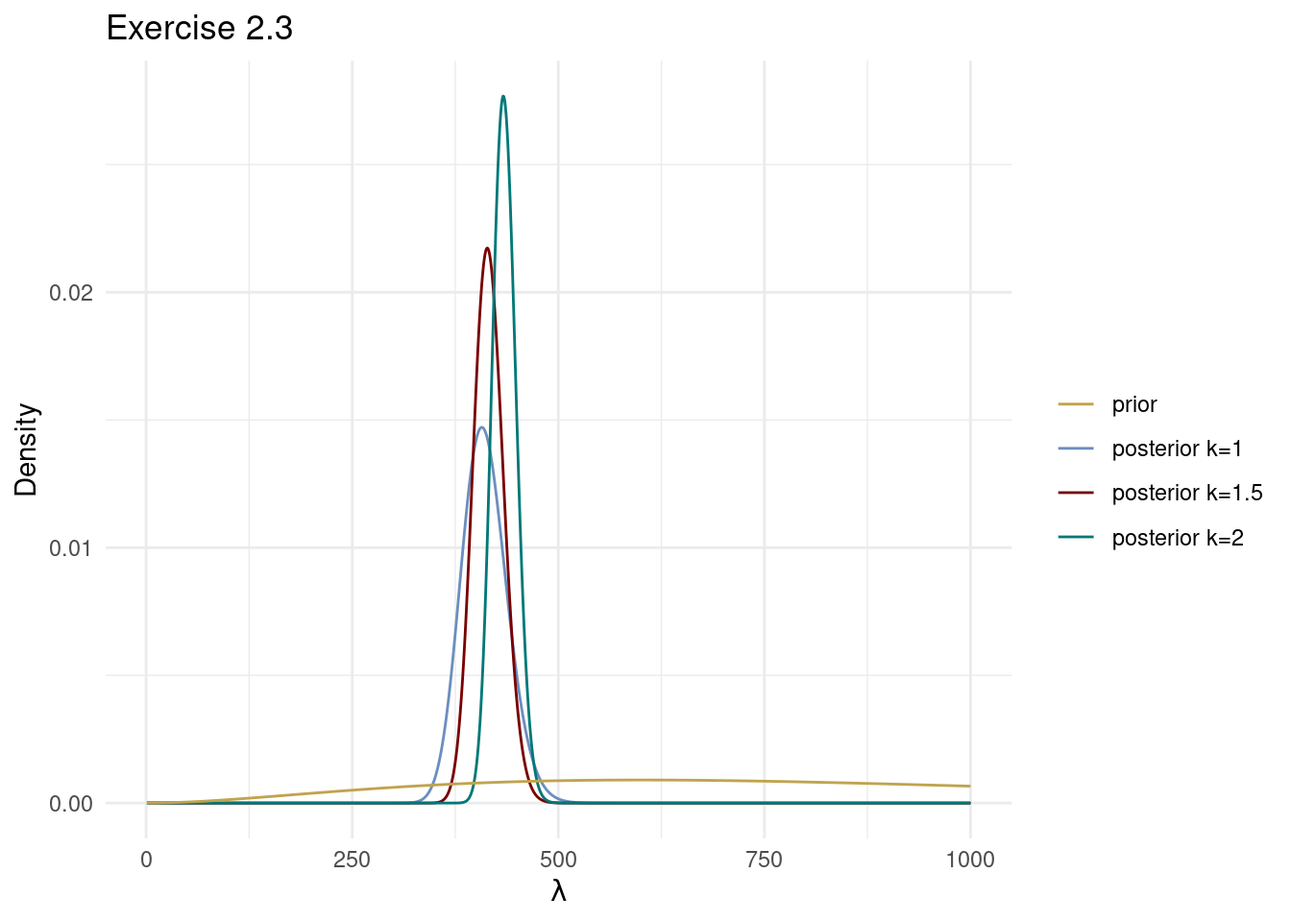
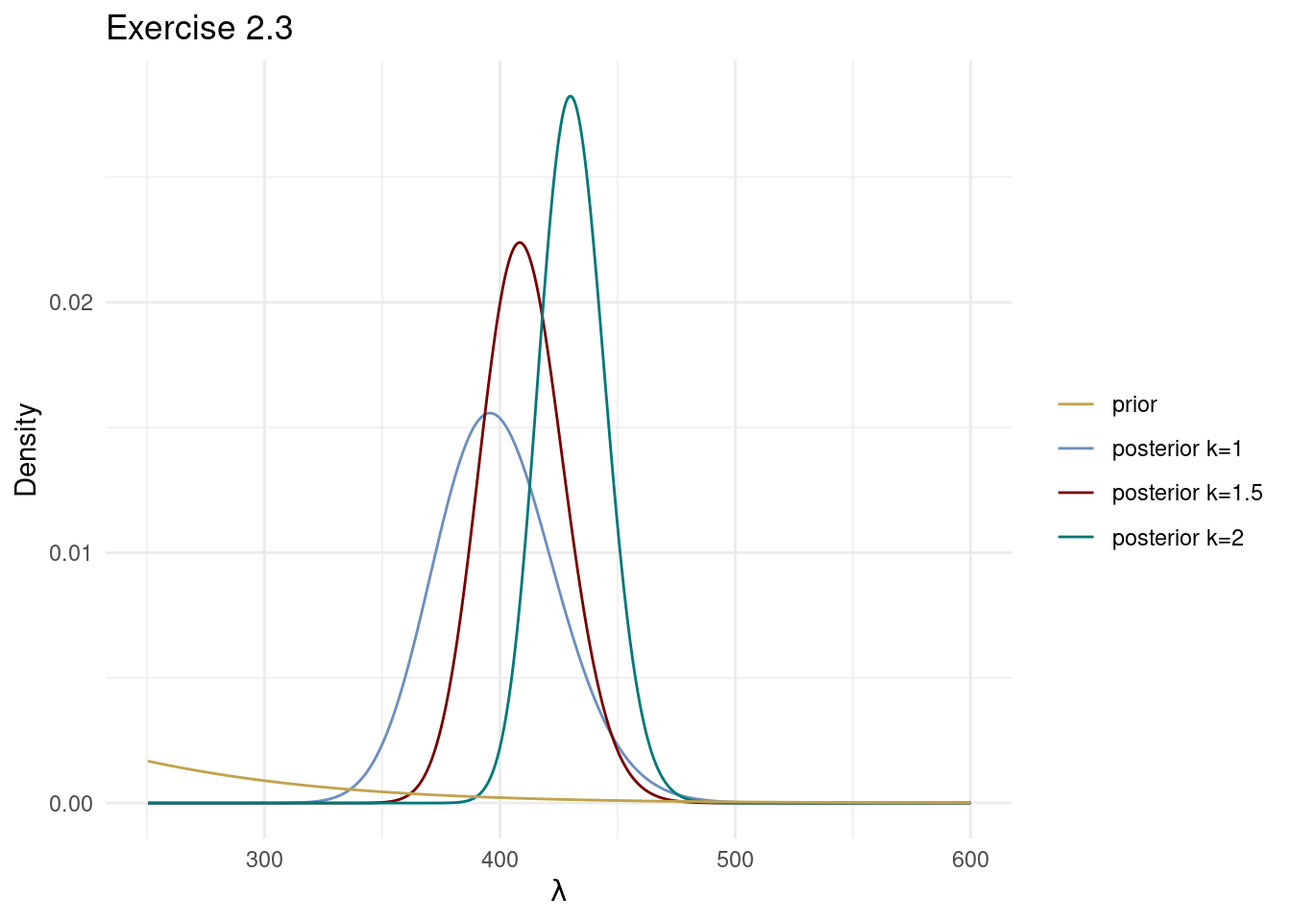
added exercise: stan for simple weibull

diff --git a/docs/exercises/ch2/weibull_post_censored.html b/docs/exercises/ch2/weibull_post_censored.html
@@ -218,6 +218,7 @@ X_1,\ldots,X_n \vert \lambda, k \overset{\mathrm{iid}}{\sim} \mathrm{Weibull}(\l
 <ol type="a">
 <li>Plot the posterior distribution of <span class="math inline">\(\lambda\)</span> conditional on <span class="math inline">\(k=1\)</span>, <span class="math inline">\(k=3/2\)</span> and <span class="math inline">\(k=2\)</span>. For all <span class="math inline">\(k\)</span>, use the prior <span class="math inline">\(\lambda \sim \mathrm{Gamma}(\alpha,\beta)\)</span> with <span class="math inline">\(\alpha=3\)</span> and <span class="math inline">\(\beta=1/50\)</span> (which a similar prior for <span class="math inline">\(\theta=1/\lambda\)</span> as in Exercise 2.2). <em>Hint</em>: the posterior distribution for <span class="math inline">\(k\neq 1\)</span> is intractable, so use numerical evaluation of the posterior over a grid of <span class="math inline">\(\lambda\)</span>-values.</li>
 <li>Plot the <code>time</code> variable as a histogram and overlay the fitted model for the three different <span class="math inline">\(k\)</span>-values; use the posterior mode for <span class="math inline">\(\theta\)</span> in each model when plotting the fitted model density.<br></li>
+<li>Use <code>stan</code> to sample from the posterior distribution of <span class="math inline">\(\lambda\)</span> for a given <span class="math inline">\(k=3/2\)</span>. This should replicate your results in (a). Read <a href="https://mc-stan.org/docs/stan-users-guide/truncation-censoring.html#integrating-out-censored-values">this part</a> of the Stan User Guide on how to implement censoring in the model before starting. The example in the User Guide has the same censoring point for all patients, which is not the case in the <code>lung</code> dataset. So you need to generalize that to a vector of censoring points, one for each patient.</li>
 </ol>
 <div class="callout callout-style-default callout-note no-icon callout-titled">
 <div class="callout-header d-flex align-content-center" data-bs-toggle="collapse" data-bs-target=".callout-1-contents" aria-controls="callout-1" aria-expanded="false" aria-label="Toggle callout">
@@ -258,7 +259,7 @@ p(\lambda^{(j)} \vert x_1,\ldots,x_n) =
 <p>Set up prior hyperparameters</p>
 <div class="cell">
 <div class="sourceCode cell-code" id="cb2"><pre class="sourceCode r code-with-copy"><code class="sourceCode r"><span id="cb2-1"><a href="#cb2-1" aria-hidden="true" tabindex="-1"></a>alpha_prior <span class="ot">&lt;-</span> <span class="dv">3</span>     <span class="co"># shape parameter</span></span>
-<span id="cb2-2"><a href="#cb2-2" aria-hidden="true" tabindex="-1"></a>beta_prior <span class="ot">&lt;-</span> <span class="dv">1</span><span class="sc">/</span><span class="dv">300</span>  <span class="co"># rate parameter</span></span></code><button title="Copy to Clipboard" class="code-copy-button"><i class="bi"></i></button></pre></div>
+<span id="cb2-2"><a href="#cb2-2" aria-hidden="true" tabindex="-1"></a>beta_prior <span class="ot">&lt;-</span> <span class="dv">1</span><span class="sc">/</span><span class="dv">50</span>   <span class="co"># rate parameter</span></span></code><button title="Copy to Clipboard" class="code-copy-button"><i class="bi"></i></button></pre></div>
 </div>
 <p>Set up function that computes the likelihood for any <span class="math inline">\(\lambda\)</span> value:</p>
 <div class="cell">
@@ -288,7 +289,7 @@ p(\lambda^{(j)} \vert x_1,\ldots,x_n) =
 <div class="cell">
 <div class="sourceCode cell-code" id="cb5"><pre class="sourceCode r code-with-copy"><code class="sourceCode r"><span id="cb5-1"><a href="#cb5-1" aria-hidden="true" tabindex="-1"></a><span class="co"># Plot the prior and posterior densities</span></span>
 <span id="cb5-2"><a href="#cb5-2" aria-hidden="true" tabindex="-1"></a></span>
-<span id="cb5-3"><a href="#cb5-3" aria-hidden="true" tabindex="-1"></a>lambdaGrid <span class="ot">&lt;-</span> <span class="fu">seq</span>(<span class="dv">1</span>, <span class="dv">1000</span>, <span class="at">length.out =</span> <span class="dv">1000</span>)</span>
+<span id="cb5-3"><a href="#cb5-3" aria-hidden="true" tabindex="-1"></a>lambdaGrid <span class="ot">&lt;-</span> <span class="fu">seq</span>(<span class="dv">200</span>, <span class="dv">800</span>, <span class="at">length.out =</span> <span class="dv">1000</span>)</span>
 <span id="cb5-4"><a href="#cb5-4" aria-hidden="true" tabindex="-1"></a><span class="co"># Compute to get the prior</span></span>
 <span id="cb5-5"><a href="#cb5-5" aria-hidden="true" tabindex="-1"></a>postRes <span class="ot">&lt;-</span> <span class="fu">weibull_posterior</span>(lambdaGrid, lung<span class="sc">$</span>time, lung<span class="sc">$</span>status <span class="sc">==</span> <span class="dv">1</span>, <span class="at">k =</span> <span class="dv">1</span>, </span>
 <span id="cb5-6"><a href="#cb5-6" aria-hidden="true" tabindex="-1"></a>                             alpha_prior, beta_prior)</span>
@@ -311,11 +312,16 @@ p(\lambda^{(j)} \vert x_1,\ldots,x_n) =
 <span id="cb5-23"><a href="#cb5-23" aria-hidden="true" tabindex="-1"></a><span class="fu">ggplot</span>(df_long) <span class="sc">+</span></span>
 <span id="cb5-24"><a href="#cb5-24" aria-hidden="true" tabindex="-1"></a>  <span class="fu">aes</span>(<span class="at">x =</span> lambdaGrid, <span class="at">y =</span> density, <span class="at">color =</span> density_type) <span class="sc">+</span></span>
 <span id="cb5-25"><a href="#cb5-25" aria-hidden="true" tabindex="-1"></a>  <span class="fu">geom_line</span>() <span class="sc">+</span></span>
-<span id="cb5-26"><a href="#cb5-26" aria-hidden="true" tabindex="-1"></a>  <span class="fu">scale_colour_manual</span>(</span>
-<span id="cb5-27"><a href="#cb5-27" aria-hidden="true" tabindex="-1"></a>    <span class="at">breaks =</span> <span class="fu">c</span>(<span class="st">"prior"</span>, <span class="st">"posterior k=1"</span>, <span class="st">"posterior k=1.5"</span>, <span class="st">"posterior k=2"</span>), </span>
-<span id="cb5-28"><a href="#cb5-28" aria-hidden="true" tabindex="-1"></a>    <span class="at">values =</span> <span class="fu">c</span>(colors[<span class="dv">2</span>], colors[<span class="dv">1</span>], colors[<span class="dv">3</span>], colors[<span class="dv">4</span>])) <span class="sc">+</span></span>
-<span id="cb5-29"><a href="#cb5-29" aria-hidden="true" tabindex="-1"></a>  <span class="fu">labs</span>(<span class="at">title =</span> <span class="st">"Exercise 2.3"</span>, <span class="at">x =</span> <span class="fu">expression</span>(lambda), <span class="at">y =</span> <span class="st">"Density"</span>, <span class="at">color =</span> <span class="st">""</span>) <span class="sc">+</span> </span>
-<span id="cb5-30"><a href="#cb5-30" aria-hidden="true" tabindex="-1"></a>  <span class="fu">theme_minimal</span>()</span></code><button title="Copy to Clipboard" class="code-copy-button"><i class="bi"></i></button></pre></div>
+<span id="cb5-26"><a href="#cb5-26" aria-hidden="true" tabindex="-1"></a>  <span class="fu">xlim</span>(<span class="dv">250</span>,<span class="dv">600</span>) <span class="sc">+</span></span>
+<span id="cb5-27"><a href="#cb5-27" aria-hidden="true" tabindex="-1"></a>  <span class="fu">scale_colour_manual</span>(</span>
+<span id="cb5-28"><a href="#cb5-28" aria-hidden="true" tabindex="-1"></a>    <span class="at">breaks =</span> <span class="fu">c</span>(<span class="st">"prior"</span>, <span class="st">"posterior k=1"</span>, <span class="st">"posterior k=1.5"</span>, <span class="st">"posterior k=2"</span>), </span>
+<span id="cb5-29"><a href="#cb5-29" aria-hidden="true" tabindex="-1"></a>    <span class="at">values =</span> <span class="fu">c</span>(colors[<span class="dv">2</span>], colors[<span class="dv">1</span>], colors[<span class="dv">3</span>], colors[<span class="dv">4</span>])) <span class="sc">+</span></span>
+<span id="cb5-30"><a href="#cb5-30" aria-hidden="true" tabindex="-1"></a>  <span class="fu">labs</span>(<span class="at">title =</span> <span class="st">"Exercise 2.3"</span>, <span class="at">x =</span> <span class="fu">expression</span>(lambda), <span class="at">y =</span> <span class="st">"Density"</span>, <span class="at">color =</span> <span class="st">""</span>) <span class="sc">+</span> </span>
+<span id="cb5-31"><a href="#cb5-31" aria-hidden="true" tabindex="-1"></a>  <span class="fu">theme_minimal</span>()</span></code><button title="Copy to Clipboard" class="code-copy-button"><i class="bi"></i></button></pre></div>
+<div class="cell-output cell-output-stderr">
+<pre><code>Warning: Removed 1668 rows containing missing values or values outside the scale range
+(`geom_line()`).</code></pre>
+</div>
 <div class="cell-output-display">
 <div>
 <figure class="figure">
@@ -339,27 +345,145 @@ Solution Exercise 2.3b
 </div>
 <div id="callout-2" class="callout-2-contents callout-collapse collapse">
 <div class="callout-body-container callout-body">
-<p>The fit of the three Weibull models are plotted below. The best fit seems to be for <span class="math inline">\(k=3/2\)</span>, which is still not very good. In a later exercise you will be asked to freely estimate both <span class="math inline">\(\lambda\)</span> and <span class="math inline">\(k\)</span>.</p>
+<p>The fit of the three Weibull models are plotted below. The best fit seems to be for <span class="math inline">\(k=3/2\)</span>, but it is still not very good. In a later exercise you will be asked to freely estimate both <span class="math inline">\(\lambda\)</span> and <span class="math inline">\(k\)</span>, and even later to fit a Weibull regression model with covariates.</p>
 <div class="cell">
-<div class="sourceCode cell-code" id="cb6"><pre class="sourceCode r code-with-copy"><code class="sourceCode r"><span id="cb6-1"><a href="#cb6-1" aria-hidden="true" tabindex="-1"></a><span class="fu">ggplot</span>(lung, <span class="fu">aes</span>(time)) <span class="sc">+</span></span>
-<span id="cb6-2"><a href="#cb6-2" aria-hidden="true" tabindex="-1"></a>  <span class="fu">geom_histogram</span>(<span class="fu">aes</span>(<span class="at">y =</span> <span class="fu">after_stat</span>(density), <span class="at">fill =</span> <span class="st">"Data"</span>), <span class="at">bins =</span> <span class="dv">30</span>) <span class="sc">+</span></span>
-<span id="cb6-3"><a href="#cb6-3" aria-hidden="true" tabindex="-1"></a>  <span class="fu">stat_function</span>(<span class="at">fun =</span> dweibull, <span class="at">args =</span> <span class="fu">list</span>(<span class="at">shape =</span> <span class="dv">1</span>, <span class="at">scale =</span> postModes[<span class="dv">1</span>]), <span class="at">lwd =</span> <span class="dv">1</span>, </span>
-<span id="cb6-4"><a href="#cb6-4" aria-hidden="true" tabindex="-1"></a>                <span class="fu">aes</span>(<span class="at">color =</span> <span class="st">"Weibull fit k = 1/2"</span>),</span>
-<span id="cb6-5"><a href="#cb6-5" aria-hidden="true" tabindex="-1"></a>  ) <span class="sc">+</span></span>
-<span id="cb6-6"><a href="#cb6-6" aria-hidden="true" tabindex="-1"></a>  <span class="fu">stat_function</span>(<span class="at">fun =</span> dweibull, <span class="at">args =</span> <span class="fu">list</span>(<span class="at">shape =</span> <span class="dv">3</span><span class="sc">/</span><span class="dv">2</span>, <span class="at">scale =</span> postModes[<span class="dv">2</span>]), <span class="at">lwd =</span> <span class="dv">1</span>, </span>
-<span id="cb6-7"><a href="#cb6-7" aria-hidden="true" tabindex="-1"></a>                <span class="fu">aes</span>(<span class="at">color =</span> <span class="st">"Weibull fit k = 1"</span>),</span>
-<span id="cb6-8"><a href="#cb6-8" aria-hidden="true" tabindex="-1"></a>  ) <span class="sc">+</span></span>
-<span id="cb6-9"><a href="#cb6-9" aria-hidden="true" tabindex="-1"></a>  <span class="fu">stat_function</span>(<span class="at">fun =</span> dweibull, <span class="at">args =</span> <span class="fu">list</span>(<span class="at">shape =</span> <span class="dv">2</span>, <span class="at">scale =</span> postModes[<span class="dv">3</span>]), <span class="at">lwd =</span> <span class="dv">1</span>, </span>
-<span id="cb6-10"><a href="#cb6-10" aria-hidden="true" tabindex="-1"></a>                <span class="fu">aes</span>(<span class="at">color =</span> <span class="st">"Weibull fit k = 2"</span>),</span>
-<span id="cb6-11"><a href="#cb6-11" aria-hidden="true" tabindex="-1"></a>  ) <span class="sc">+</span></span>
-<span id="cb6-12"><a href="#cb6-12" aria-hidden="true" tabindex="-1"></a>  <span class="fu">labs</span>(<span class="at">title =</span> <span class="st">"Weibull model fits"</span>, <span class="at">x =</span> <span class="st">"days"</span>, <span class="at">y =</span> <span class="st">"Density"</span>) <span class="sc">+</span> </span>
-<span id="cb6-13"><a href="#cb6-13" aria-hidden="true" tabindex="-1"></a>  <span class="fu">scale_fill_manual</span>(<span class="st">""</span>, <span class="at">values =</span> colors[<span class="dv">6</span>]) <span class="sc">+</span></span>
-<span id="cb6-14"><a href="#cb6-14" aria-hidden="true" tabindex="-1"></a>  <span class="fu">scale_color_manual</span>(<span class="st">""</span>, <span class="at">values =</span> <span class="fu">c</span>(colors[<span class="dv">1</span>], colors[<span class="dv">3</span>], colors[<span class="dv">4</span>])) <span class="sc">+</span></span>
-<span id="cb6-15"><a href="#cb6-15" aria-hidden="true" tabindex="-1"></a>  <span class="fu">theme_minimal</span>()</span></code><button title="Copy to Clipboard" class="code-copy-button"><i class="bi"></i></button></pre></div>
+<div class="sourceCode cell-code" id="cb7"><pre class="sourceCode r code-with-copy"><code class="sourceCode r"><span id="cb7-1"><a href="#cb7-1" aria-hidden="true" tabindex="-1"></a><span class="fu">ggplot</span>(lung, <span class="fu">aes</span>(time)) <span class="sc">+</span></span>
+<span id="cb7-2"><a href="#cb7-2" aria-hidden="true" tabindex="-1"></a>  <span class="fu">geom_histogram</span>(<span class="fu">aes</span>(<span class="at">y =</span> <span class="fu">after_stat</span>(density), <span class="at">fill =</span> <span class="st">"Data"</span>), <span class="at">bins =</span> <span class="dv">30</span>) <span class="sc">+</span></span>
+<span id="cb7-3"><a href="#cb7-3" aria-hidden="true" tabindex="-1"></a>  <span class="fu">stat_function</span>(<span class="at">fun =</span> dweibull, <span class="at">args =</span> <span class="fu">list</span>(<span class="at">shape =</span> <span class="dv">1</span>, <span class="at">scale =</span> postModes[<span class="dv">1</span>]), <span class="at">lwd =</span> <span class="dv">1</span>, </span>
+<span id="cb7-4"><a href="#cb7-4" aria-hidden="true" tabindex="-1"></a>                <span class="fu">aes</span>(<span class="at">color =</span> <span class="st">"Weibull fit k = 1"</span>),</span>
+<span id="cb7-5"><a href="#cb7-5" aria-hidden="true" tabindex="-1"></a>  ) <span class="sc">+</span></span>
+<span id="cb7-6"><a href="#cb7-6" aria-hidden="true" tabindex="-1"></a>  <span class="fu">stat_function</span>(<span class="at">fun =</span> dweibull, <span class="at">args =</span> <span class="fu">list</span>(<span class="at">shape =</span> <span class="dv">3</span><span class="sc">/</span><span class="dv">2</span>, <span class="at">scale =</span> postModes[<span class="dv">2</span>]), <span class="at">lwd =</span> <span class="dv">1</span>, </span>
+<span id="cb7-7"><a href="#cb7-7" aria-hidden="true" tabindex="-1"></a>                <span class="fu">aes</span>(<span class="at">color =</span> <span class="st">"Weibull fit k = 3/2"</span>),</span>
+<span id="cb7-8"><a href="#cb7-8" aria-hidden="true" tabindex="-1"></a>  ) <span class="sc">+</span></span>
+<span id="cb7-9"><a href="#cb7-9" aria-hidden="true" tabindex="-1"></a>  <span class="fu">stat_function</span>(<span class="at">fun =</span> dweibull, <span class="at">args =</span> <span class="fu">list</span>(<span class="at">shape =</span> <span class="dv">2</span>, <span class="at">scale =</span> postModes[<span class="dv">3</span>]), <span class="at">lwd =</span> <span class="dv">1</span>, </span>
+<span id="cb7-10"><a href="#cb7-10" aria-hidden="true" tabindex="-1"></a>                <span class="fu">aes</span>(<span class="at">color =</span> <span class="st">"Weibull fit k = 2"</span>),</span>
+<span id="cb7-11"><a href="#cb7-11" aria-hidden="true" tabindex="-1"></a>  ) <span class="sc">+</span></span>
+<span id="cb7-12"><a href="#cb7-12" aria-hidden="true" tabindex="-1"></a>  <span class="fu">labs</span>(<span class="at">title =</span> <span class="st">"Weibull model fits"</span>, <span class="at">x =</span> <span class="st">"days"</span>, <span class="at">y =</span> <span class="st">"Density"</span>) <span class="sc">+</span> </span>
+<span id="cb7-13"><a href="#cb7-13" aria-hidden="true" tabindex="-1"></a>  <span class="fu">scale_fill_manual</span>(<span class="st">""</span>, <span class="at">values =</span> colors[<span class="dv">6</span>]) <span class="sc">+</span></span>
+<span id="cb7-14"><a href="#cb7-14" aria-hidden="true" tabindex="-1"></a>  <span class="fu">scale_color_manual</span>(<span class="st">""</span>, <span class="at">values =</span> <span class="fu">c</span>(colors[<span class="dv">1</span>], colors[<span class="dv">3</span>], colors[<span class="dv">4</span>])) <span class="sc">+</span></span>
+<span id="cb7-15"><a href="#cb7-15" aria-hidden="true" tabindex="-1"></a>  <span class="fu">theme_minimal</span>()</span></code><button title="Copy to Clipboard" class="code-copy-button"><i class="bi"></i></button></pre></div>
 <div class="cell-output-display">
 <div>
 <figure class="figure">
 <p><img src="weibull_post_censored_files/figure-html/unnamed-chunk-6-1.png" class="img-fluid figure-img" width="672"></p>
+</figure>
+</div>
+</div>
+</div>
+</div>
+</div>
+</div>
+<div class="callout callout-style-default callout-note no-icon callout-titled">
+<div class="callout-header d-flex align-content-center" data-bs-toggle="collapse" data-bs-target=".callout-3-contents" aria-controls="callout-3" aria-expanded="false" aria-label="Toggle callout">
+<div class="callout-icon-container">
+<i class="callout-icon no-icon"></i>
+</div>
+<div class="callout-title-container flex-fill">
+Solution Exercise 2.3c
+</div>
+<div class="callout-btn-toggle d-inline-block border-0 py-1 ps-1 pe-0 float-end"><i class="callout-toggle"></i></div>
+</div>
+<div id="callout-3" class="callout-3-contents callout-collapse collapse">
+<div class="callout-body-container callout-body">
+<p>The code below defines the iid Weibull survival model with censored data in <code>stan</code>. The code here extends <a href="https://mc-stan.org/docs/stan-users-guide/truncation-censoring.html#integrating-out-censored-values">this example</a> in the Stan User Guide to the case with <em>different censoring points</em> for each patient. Note the <code>target +=</code> construction where the censored data points are added to the target (the log posterior) after the initial uncensored (observed) data are included in the log posterior with the <code>y_obs ~ weibull(k, lambda)</code> statement. The <code>weibull_lccdf</code> function in stan is a convenience function that computes the survival probability <span class="math inline">\(\mathrm{Pr}(X &gt;= x) = 1 - F(x)\)</span>, where <span class="math inline">\(F()\)</span> is the cdf of the Weibull distribution. There are <code>_lccdf</code> versions of all distribution in stan.</p>
+<div class="cell">
+<div class="sourceCode cell-code" id="cb8"><pre class="sourceCode r code-with-copy"><code class="sourceCode r"><span id="cb8-1"><a href="#cb8-1" aria-hidden="true" tabindex="-1"></a>weibull_survivalmodel <span class="ot">&lt;-</span> <span class="st">'</span></span>
+<span id="cb8-2"><a href="#cb8-2" aria-hidden="true" tabindex="-1"></a><span class="st">data {</span></span>
+<span id="cb8-3"><a href="#cb8-3" aria-hidden="true" tabindex="-1"></a></span>
+<span id="cb8-4"><a href="#cb8-4" aria-hidden="true" tabindex="-1"></a><span class="st">  // Data</span></span>
+<span id="cb8-5"><a href="#cb8-5" aria-hidden="true" tabindex="-1"></a><span class="st">  int&lt;lower=0&gt; N_obs;</span></span>
+<span id="cb8-6"><a href="#cb8-6" aria-hidden="true" tabindex="-1"></a><span class="st">  int&lt;lower=0&gt; N_cens;</span></span>
+<span id="cb8-7"><a href="#cb8-7" aria-hidden="true" tabindex="-1"></a><span class="st">  array[N_obs] real y_obs;</span></span>
+<span id="cb8-8"><a href="#cb8-8" aria-hidden="true" tabindex="-1"></a><span class="st">  array[N_cens] real y_cens;</span></span>
+<span id="cb8-9"><a href="#cb8-9" aria-hidden="true" tabindex="-1"></a><span class="st">  </span></span>
+<span id="cb8-10"><a href="#cb8-10" aria-hidden="true" tabindex="-1"></a><span class="st">  // Model setting</span></span>
+<span id="cb8-11"><a href="#cb8-11" aria-hidden="true" tabindex="-1"></a><span class="st">  real&lt;lower=0&gt; k;</span></span>
+<span id="cb8-12"><a href="#cb8-12" aria-hidden="true" tabindex="-1"></a><span class="st">  </span></span>
+<span id="cb8-13"><a href="#cb8-13" aria-hidden="true" tabindex="-1"></a><span class="st">  // Prior hyperparameters theta ~ Gamma(alpha, beta)</span></span>
+<span id="cb8-14"><a href="#cb8-14" aria-hidden="true" tabindex="-1"></a><span class="st">  real&lt;lower=0&gt; alpha;</span></span>
+<span id="cb8-15"><a href="#cb8-15" aria-hidden="true" tabindex="-1"></a><span class="st">  real&lt;lower=0&gt; beta;</span></span>
+<span id="cb8-16"><a href="#cb8-16" aria-hidden="true" tabindex="-1"></a><span class="st">}</span></span>
+<span id="cb8-17"><a href="#cb8-17" aria-hidden="true" tabindex="-1"></a><span class="st">parameters {</span></span>
+<span id="cb8-18"><a href="#cb8-18" aria-hidden="true" tabindex="-1"></a><span class="st">  real lambda;</span></span>
+<span id="cb8-19"><a href="#cb8-19" aria-hidden="true" tabindex="-1"></a><span class="st">}</span></span>
+<span id="cb8-20"><a href="#cb8-20" aria-hidden="true" tabindex="-1"></a><span class="st">model {</span></span>
+<span id="cb8-21"><a href="#cb8-21" aria-hidden="true" tabindex="-1"></a><span class="st">  lambda ~ gamma(alpha, beta); // specifies the prior</span></span>
+<span id="cb8-22"><a href="#cb8-22" aria-hidden="true" tabindex="-1"></a><span class="st">  y_obs ~ weibull(k, lambda);  // add the observed (non-censored) data</span></span>
+<span id="cb8-23"><a href="#cb8-23" aria-hidden="true" tabindex="-1"></a><span class="st">  target += weibull_lccdf(y_cens | k, lambda); // add censored. lccdf is 1-cdf</span></span>
+<span id="cb8-24"><a href="#cb8-24" aria-hidden="true" tabindex="-1"></a><span class="st">}</span></span>
+<span id="cb8-25"><a href="#cb8-25" aria-hidden="true" tabindex="-1"></a><span class="st">'</span></span></code><button title="Copy to Clipboard" class="code-copy-button"><i class="bi"></i></button></pre></div>
+</div>
+<p>We set up the data and prior lists that will be supplied to stan:</p>
+<div class="cell">
+<div class="sourceCode cell-code" id="cb9"><pre class="sourceCode r code-with-copy"><code class="sourceCode r"><span id="cb9-1"><a href="#cb9-1" aria-hidden="true" tabindex="-1"></a>k <span class="ot">=</span> <span class="dv">3</span><span class="sc">/</span><span class="dv">2</span></span>
+<span id="cb9-2"><a href="#cb9-2" aria-hidden="true" tabindex="-1"></a>y_obs <span class="ot">&lt;-</span> lung <span class="sc">%&gt;%</span> <span class="fu">filter</span>(status <span class="sc">==</span> <span class="dv">2</span>) <span class="sc">%&gt;%</span> <span class="fu">pull</span>(time)</span>
+<span id="cb9-3"><a href="#cb9-3" aria-hidden="true" tabindex="-1"></a>y_cens <span class="ot">&lt;-</span> lung <span class="sc">%&gt;%</span> <span class="fu">filter</span>(status <span class="sc">==</span> <span class="dv">1</span>) <span class="sc">%&gt;%</span> <span class="fu">pull</span>(time)</span>
+<span id="cb9-4"><a href="#cb9-4" aria-hidden="true" tabindex="-1"></a></span>
+<span id="cb9-5"><a href="#cb9-5" aria-hidden="true" tabindex="-1"></a>data <span class="ot">&lt;-</span> <span class="fu">list</span>(<span class="at">N_obs =</span> <span class="fu">length</span>(y_obs), <span class="at">N_cens =</span> <span class="fu">length</span>(y_cens), </span>
+<span id="cb9-6"><a href="#cb9-6" aria-hidden="true" tabindex="-1"></a>             <span class="at">y_obs =</span> y_obs, <span class="at">y_cens =</span> y_cens, <span class="at">k =</span> k)</span>
+<span id="cb9-7"><a href="#cb9-7" aria-hidden="true" tabindex="-1"></a>prior <span class="ot">&lt;-</span> <span class="fu">list</span>(<span class="at">alpha =</span> alpha_prior, <span class="at">beta =</span> beta_prior)</span></code><button title="Copy to Clipboard" class="code-copy-button"><i class="bi"></i></button></pre></div>
+</div>
+<p>Load rstan and set some options</p>
+<div class="cell">
+<div class="sourceCode cell-code" id="cb10"><pre class="sourceCode r code-with-copy"><code class="sourceCode r"><span id="cb10-1"><a href="#cb10-1" aria-hidden="true" tabindex="-1"></a><span class="co">#install.packages("rstan", repos = c('https://stan-dev.r-universe.dev', </span></span>
+<span id="cb10-2"><a href="#cb10-2" aria-hidden="true" tabindex="-1"></a><span class="co">#                                    getOption("repos")))</span></span>
+<span id="cb10-3"><a href="#cb10-3" aria-hidden="true" tabindex="-1"></a><span class="fu">suppressMessages</span>(<span class="fu">library</span>(rstan))</span>
+<span id="cb10-4"><a href="#cb10-4" aria-hidden="true" tabindex="-1"></a><span class="fu">options</span>(<span class="at">mc.cores =</span> parallel<span class="sc">::</span><span class="fu">detectCores</span>())</span>
+<span id="cb10-5"><a href="#cb10-5" aria-hidden="true" tabindex="-1"></a><span class="fu">rstan_options</span>(<span class="at">auto_write =</span> <span class="cn">TRUE</span>)</span></code><button title="Copy to Clipboard" class="code-copy-button"><i class="bi"></i></button></pre></div>
+</div>
+<p>Sample from the posterior distribution using HMC in stan</p>
+<div class="cell">
+<div class="sourceCode cell-code" id="cb11"><pre class="sourceCode r code-with-copy"><code class="sourceCode r"><span id="cb11-1"><a href="#cb11-1" aria-hidden="true" tabindex="-1"></a>nDraws <span class="ot">=</span> <span class="dv">5000</span></span>
+<span id="cb11-2"><a href="#cb11-2" aria-hidden="true" tabindex="-1"></a>fit <span class="ot">=</span> <span class="fu">stan</span>(<span class="at">model_code =</span> weibull_survivalmodel, <span class="at">data =</span> <span class="fu">c</span>(data, prior), <span class="at">iter =</span> nDraws)</span></code><button title="Copy to Clipboard" class="code-copy-button"><i class="bi"></i></button></pre></div>
+<div class="cell-output cell-output-stderr">
+<pre><code>Trying to compile a simple C file</code></pre>
+</div>
+<div class="cell-output cell-output-stdout">
+<pre><code>Running /usr/lib/R/bin/R CMD SHLIB foo.c
+using C compiler: ‘gcc (Ubuntu 11.4.0-1ubuntu1~22.04) 11.4.0’
+gcc -I"/usr/share/R/include" -DNDEBUG   -I"/home/mv/R/x86_64-pc-linux-gnu-library/4.4/Rcpp/include/"  -I"/home/mv/R/x86_64-pc-linux-gnu-library/4.4/RcppEigen/include/"  -I"/home/mv/R/x86_64-pc-linux-gnu-library/4.4/RcppEigen/include/unsupported"  -I"/home/mv/R/x86_64-pc-linux-gnu-library/4.4/BH/include" -I"/home/mv/R/x86_64-pc-linux-gnu-library/4.4/StanHeaders/include/src/"  -I"/home/mv/R/x86_64-pc-linux-gnu-library/4.4/StanHeaders/include/"  -I"/home/mv/R/x86_64-pc-linux-gnu-library/4.4/RcppParallel/include/"  -I"/home/mv/R/x86_64-pc-linux-gnu-library/4.4/rstan/include" -DEIGEN_NO_DEBUG  -DBOOST_DISABLE_ASSERTS  -DBOOST_PENDING_INTEGER_LOG2_HPP  -DSTAN_THREADS  -DUSE_STANC3 -DSTRICT_R_HEADERS  -DBOOST_PHOENIX_NO_VARIADIC_EXPRESSION  -D_HAS_AUTO_PTR_ETC=0  -include '/home/mv/R/x86_64-pc-linux-gnu-library/4.4/StanHeaders/include/stan/math/prim/fun/Eigen.hpp'  -D_REENTRANT -DRCPP_PARALLEL_USE_TBB=1       -fpic  -g -O2 -ffile-prefix-map=/build/r-base-6tgf7J/r-base-4.4.2=. -fstack-protector-strong -Wformat -Werror=format-security -Wdate-time -D_FORTIFY_SOURCE=2  -c foo.c -o foo.o
+In file included from /home/mv/R/x86_64-pc-linux-gnu-library/4.4/RcppEigen/include/Eigen/Core:19,
+                 from /home/mv/R/x86_64-pc-linux-gnu-library/4.4/RcppEigen/include/Eigen/Dense:1,
+                 from /home/mv/R/x86_64-pc-linux-gnu-library/4.4/StanHeaders/include/stan/math/prim/fun/Eigen.hpp:22,
+                 from &lt;command-line&gt;:
+/home/mv/R/x86_64-pc-linux-gnu-library/4.4/RcppEigen/include/Eigen/src/Core/util/Macros.h:679:10: fatal error: cmath: No such file or directory
+  679 | #include &lt;cmath&gt;
+      |          ^~~~~~~
+compilation terminated.
+make: *** [/usr/lib/R/etc/Makeconf:195: foo.o] Error 1</code></pre>
+</div>
+</div>
+<p>Summarize the results from the posterior sampling. The number of effective draws <code>n_eff</code> is not much lower than the <span class="math inline">\(5000\)</span> nominal number of draws, so the HMC sampling is efficient. The <code>Rhat</code> is also close to one, suggesting that the different runs gave similar results.</p>
+<div class="cell">
+<div class="sourceCode cell-code" id="cb14"><pre class="sourceCode r code-with-copy"><code class="sourceCode r"><span id="cb14-1"><a href="#cb14-1" aria-hidden="true" tabindex="-1"></a>s <span class="ot">&lt;-</span> <span class="fu">summary</span>(fit, <span class="at">pars =</span> <span class="st">"lambda"</span>, <span class="at">probs =</span> <span class="fu">c</span>(<span class="fl">0.025</span>, <span class="fl">0.975</span>))</span>
+<span id="cb14-2"><a href="#cb14-2" aria-hidden="true" tabindex="-1"></a>s<span class="sc">$</span>summary  <span class="co"># results from all the different runs (chains) merged.</span></span></code><button title="Copy to Clipboard" class="code-copy-button"><i class="bi"></i></button></pre></div>
+<div class="cell-output cell-output-stdout">
+<pre><code>           mean   se_mean       sd     2.5%    97.5%    n_eff     Rhat
+lambda 415.9198 0.3630227 21.31495 376.6366 460.8922 3447.474 1.000285</code></pre>
+</div>
+</div>
+<p>Compare the posterior from HMC sampling with the gridded version above, as a bug check. Hmm, they should agree. Can’t seem to find the bug now, will fix later. Well, you get the idea.</p>
+<div class="cell">
+<div class="sourceCode cell-code" id="cb16"><pre class="sourceCode r code-with-copy"><code class="sourceCode r"><span id="cb16-1"><a href="#cb16-1" aria-hidden="true" tabindex="-1"></a><span class="co"># Plot histogram from stan draws</span></span>
+<span id="cb16-2"><a href="#cb16-2" aria-hidden="true" tabindex="-1"></a>postsamples <span class="ot">&lt;-</span> <span class="fu">extract</span>(fit, <span class="at">pars =</span> <span class="fu">c</span>(<span class="st">"lambda"</span>))</span>
+<span id="cb16-3"><a href="#cb16-3" aria-hidden="true" tabindex="-1"></a><span class="fu">hist</span>(postsamples<span class="sc">$</span>lambda, <span class="dv">50</span>, <span class="at">freq =</span> <span class="cn">FALSE</span>, <span class="at">col =</span> colors[<span class="dv">5</span>], </span>
+<span id="cb16-4"><a href="#cb16-4" aria-hidden="true" tabindex="-1"></a>     <span class="at">xlab =</span> <span class="fu">expression</span>(lambda), <span class="at">ylab =</span> <span class="st">"posterior density"</span>, </span>
+<span id="cb16-5"><a href="#cb16-5" aria-hidden="true" tabindex="-1"></a>     <span class="at">main =</span> <span class="fu">expression</span>(lambda), <span class="at">ylim =</span> <span class="fu">c</span>(<span class="dv">0</span>,<span class="fl">0.025</span>))</span>
+<span id="cb16-6"><a href="#cb16-6" aria-hidden="true" tabindex="-1"></a></span>
+<span id="cb16-7"><a href="#cb16-7" aria-hidden="true" tabindex="-1"></a><span class="co"># Adding the gridded version from above</span></span>
+<span id="cb16-8"><a href="#cb16-8" aria-hidden="true" tabindex="-1"></a>lambdaGrid <span class="ot">&lt;-</span> <span class="fu">seq</span>(<span class="dv">200</span>, <span class="dv">800</span>, <span class="at">length.out =</span> <span class="dv">1000</span>)</span>
+<span id="cb16-9"><a href="#cb16-9" aria-hidden="true" tabindex="-1"></a>postRes <span class="ot">&lt;-</span> <span class="fu">weibull_posterior</span>(lambdaGrid, lung<span class="sc">$</span>time, lung<span class="sc">$</span>status <span class="sc">==</span> <span class="dv">1</span>, <span class="at">k =</span> k, </span>
+<span id="cb16-10"><a href="#cb16-10" aria-hidden="true" tabindex="-1"></a>                             alpha_prior, beta_prior)</span>
+<span id="cb16-11"><a href="#cb16-11" aria-hidden="true" tabindex="-1"></a><span class="fu">lines</span>(lambdaGrid, postRes<span class="sc">$</span>post, <span class="at">col =</span> colors[<span class="dv">3</span>], <span class="at">lw =</span> <span class="dv">2</span>)</span>
+<span id="cb16-12"><a href="#cb16-12" aria-hidden="true" tabindex="-1"></a></span>
+<span id="cb16-13"><a href="#cb16-13" aria-hidden="true" tabindex="-1"></a><span class="fu">legend</span>(<span class="at">x =</span> <span class="st">"topright"</span>, <span class="at">inset=</span>.<span class="dv">05</span>, <span class="at">legend =</span> <span class="fu">c</span>(<span class="st">"Stan"</span>, <span class="st">"Gridded"</span>), <span class="at">lty =</span> <span class="fu">c</span>(<span class="dv">0</span>,<span class="dv">1</span>),</span>
+<span id="cb16-14"><a href="#cb16-14" aria-hidden="true" tabindex="-1"></a>         <span class="at">fill =</span> <span class="fu">c</span>(colors[<span class="dv">5</span>], <span class="cn">NA</span>), <span class="at">border =</span> <span class="fu">c</span>(<span class="dv">1</span>,<span class="dv">0</span>),</span>
+<span id="cb16-15"><a href="#cb16-15" aria-hidden="true" tabindex="-1"></a>         <span class="at">col =</span> <span class="fu">c</span>(colors[<span class="dv">5</span>], colors[<span class="dv">3</span>]), <span class="at">box.lty=</span><span class="dv">1</span></span>
+<span id="cb16-16"><a href="#cb16-16" aria-hidden="true" tabindex="-1"></a>  )</span></code><button title="Copy to Clipboard" class="code-copy-button"><i class="bi"></i></button></pre></div>
+<div class="cell-output-display">
+<div>
+<figure class="figure">
+<p><img src="weibull_post_censored_files/figure-html/unnamed-chunk-12-1.png" class="img-fluid figure-img" width="672"></p>
 </figure>
 </div>
 </div>

diff --git a/docs/exercises/ch2/expon_post_censored.html b/docs/exercises/ch2/expon_post_censored.html
@@ -281,7 +281,7 @@ Solution Exercise 2.2a
 </div>
 </div>
 </div>
-<div id="prob:expon_lung_b" class="callout callout-style-default callout-note no-icon callout-titled">
+<div class="callout callout-style-default callout-note no-icon callout-titled">
 <div class="callout-header d-flex align-content-center" data-bs-toggle="collapse" data-bs-target=".callout-2-contents" aria-controls="callout-2" aria-expanded="false" aria-label="Toggle callout">
 <div class="callout-icon-container">
 <i class="callout-icon no-icon"></i>
